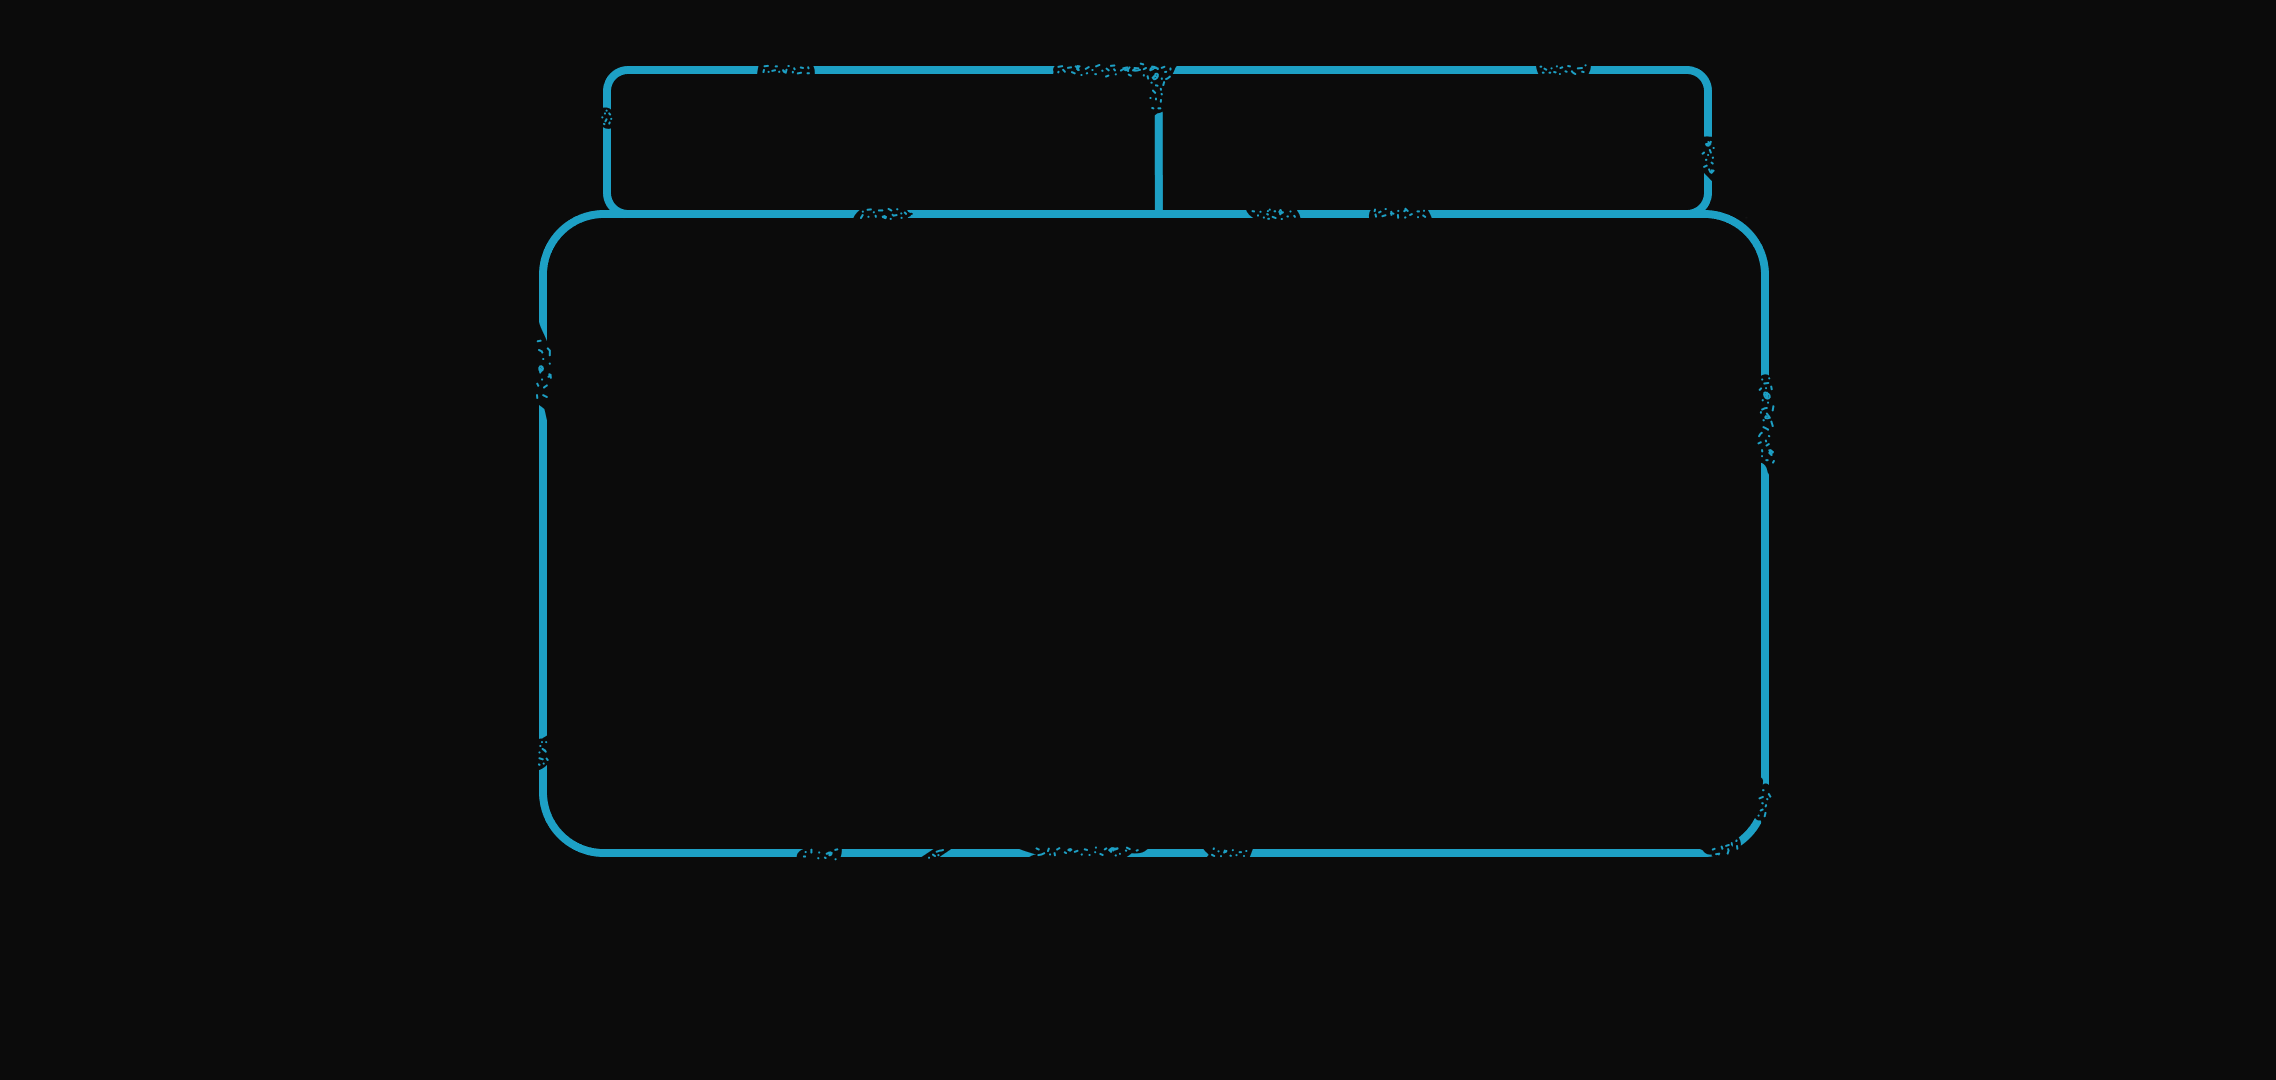
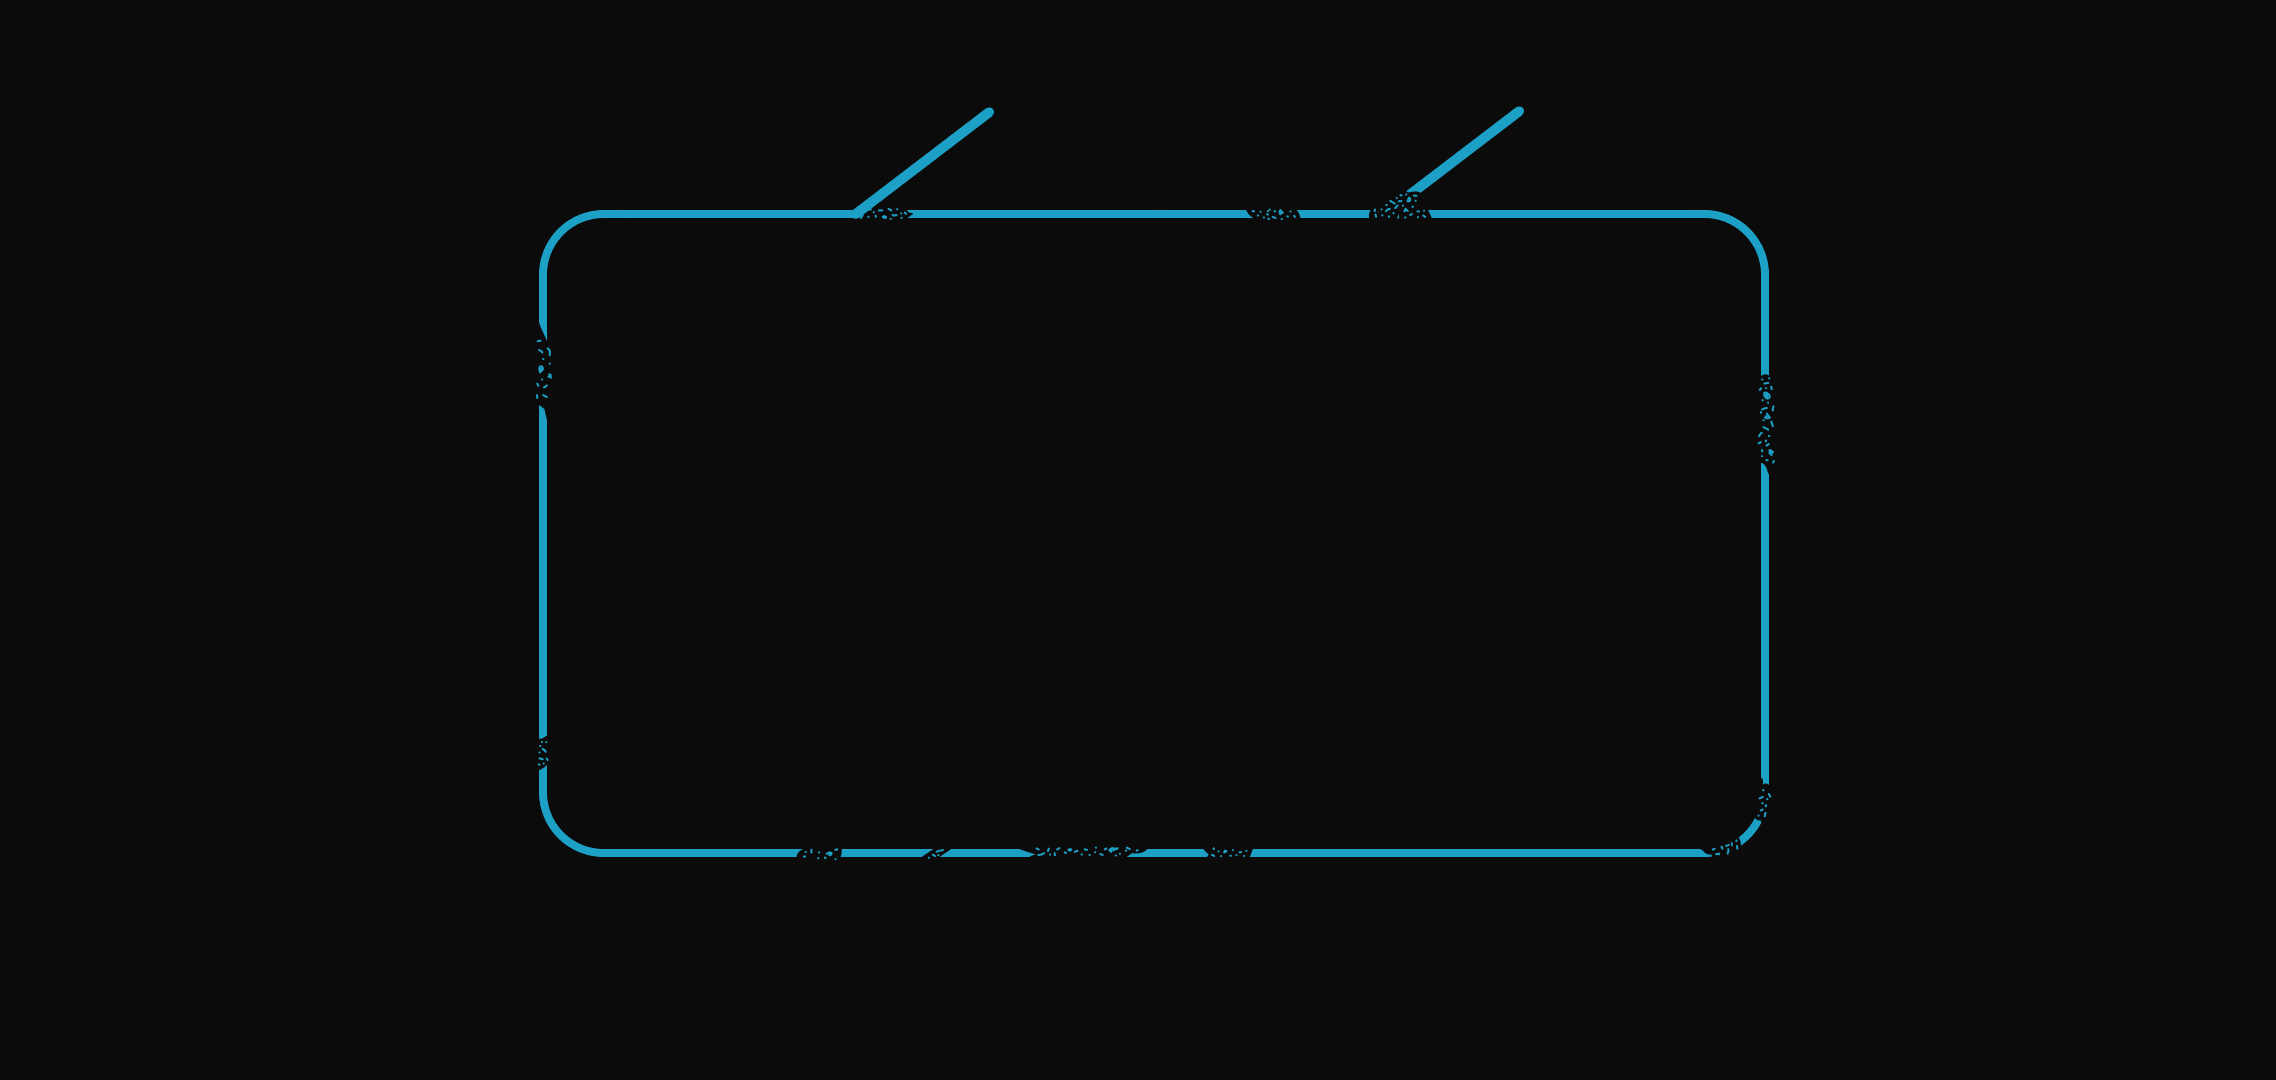
v

diff --git a/OptionsSounds.java b/OptionsSounds.java
@@ -16,11 +16,22 @@ public class OptionsSounds extends JPanel implements ActionListener, ChangeListe
 
     OptionsSounds(FenetreOption f_o) {
 
-        try {
-            img = ImageIO.read(new File("graphics/images/FondMenuOptions.png"));
-        } catch (IOException e) {
-            e.printStackTrace();
+        if (FenetreGraphique.vien_de == 2) {
+            try {
+                img = ImageIO.read(new File("graphics/images/FondMenuOptions.png"));
+            } catch (IOException e) {
+                e.printStackTrace();
+            }
         }
+
+        else {
+            try {
+                img = ImageIO.read(new File("graphics/images/FondMenuOptions1.png"));
+            } catch (IOException e) {
+                e.printStackTrace();
+            }
+        }
+
         this.f_o = f_o;
 
         creationBouton();
@@ -32,7 +43,6 @@ public class OptionsSounds extends JPanel implements ActionListener, ChangeListe
         g.setColor(Color.BLACK);
         g.drawImage(img, 0, 0, longueur, hauteur, null);
     }
-
 
     public void creationBouton() {
 
@@ -66,10 +76,16 @@ public class OptionsSounds extends JPanel implements ActionListener, ChangeListe
         this.add(ActiverLeSon);
 
         // Bouton Appliquer les changements
-        Bouton Affichage = new Bouton(550, 100, 400, 110, "Affichage");
+        Bouton Affichage = new Bouton(550, 90, 400, 110, "Affichage");
         Affichage.setActionCommand("Affichage");
         Affichage.addActionListener(this);
         this.add(Affichage);
+
+        // Bouton Afficher règles du jeux
+        Bouton Regles = new Bouton(1500, 950, 500, 110, "Regles");
+        Regles.setActionCommand("Regles");
+        Regles.addActionListener(this);
+        this.add(Regles);
 
         if (FenetreGraphique.vien_de == 2) {
             // Bouton aller dans Gameplay
@@ -140,6 +156,12 @@ public class OptionsSounds extends JPanel implements ActionListener, ChangeListe
                 FenetreGraphique.sounds.stop();
                 FenetreGraphique.putSong = !FenetreGraphique.putSong;
             }
+        }
+
+        else if (event.getActionCommand().equals("Regles")) {
+            FenetreOption.window = 4;
+            FenetreOption.changement = true;
+            FenetreOption.show = true;
         }
 
     }

diff --git a/Options.java b/Options.java
@@ -6,7 +6,7 @@ import javax.imageio.*;
 import java.io.File;
 import java.awt.event.*;
 
-public class Options extends JPanel implements ActionListener{
+public class Options extends JPanel implements ActionListener {
 
     BufferedImage img;
     private FenetreOption f_o;
@@ -14,11 +14,22 @@ public class Options extends JPanel implements ActionListener{
 
     Options(FenetreOption f_o) {
 
-        try {
-            img = ImageIO.read(new File("graphics/images/FondMenuOptions.png"));
-        } catch (IOException e) {
-            e.printStackTrace();
+        if (FenetreGraphique.vien_de == 2) {
+            try {
+                img = ImageIO.read(new File("graphics/images/FondMenuOptions.png"));
+            } catch (IOException e) {
+                e.printStackTrace();
+            }
         }
+
+        else {
+            try {
+                img = ImageIO.read(new File("graphics/images/FondMenuOptions1.png"));
+            } catch (IOException e) {
+                e.printStackTrace();
+            }
+        }
+
         this.f_o = f_o;
 
         creationBouton();
@@ -52,7 +63,7 @@ public class Options extends JPanel implements ActionListener{
         this.add(Regles);
 
         // Bouton aller dans la catégorie Affichage
-        Bouton Affichage = new Bouton(550, 100, 400, 110, "Affichage");
+        Bouton Affichage = new Bouton(550, 90, 400, 110, "Affichage");
         Affichage.setActionCommand("Activer le son");
         Affichage.addActionListener(this);
         Color monOrange = new Color(197, 116, 29);
@@ -120,6 +131,7 @@ public class Options extends JPanel implements ActionListener{
         }
 
         else if (event.getActionCommand().equals("Appliquer")) {
+
             if (FenetreGraphique.changeScreen == true) {
                 f_o.f_g.changementDeScreen();
             }
@@ -130,8 +142,8 @@ public class Options extends JPanel implements ActionListener{
                 FenetreGraphique.putSong = !FenetreGraphique.putSong;
             }
         }
-        else if(event.getActionCommand().equals("Regles"))
-        {
+
+        else if (event.getActionCommand().equals("Regles")) {
             FenetreOption.window = 4;
             FenetreOption.changement = true;
             FenetreOption.show = true;

diff --git a/OptionsGameplay.java b/OptionsGameplay.java
@@ -18,11 +18,22 @@ public class OptionsGameplay extends JPanel implements ActionListener, ChangeLis
 
     OptionsGameplay(FenetreOption f_o) {
 
-        try {
-            img = ImageIO.read(new File("graphics/images/FondMenuOptions.png"));
-        } catch (IOException e) {
-            e.printStackTrace();
+        if (FenetreGraphique.vien_de == 2) {
+            try {
+                img = ImageIO.read(new File("graphics/images/FondMenuOptions.png"));
+            } catch (IOException e) {
+                e.printStackTrace();
+            }
         }
+
+        else {
+            try {
+                img = ImageIO.read(new File("graphics/images/FondMenuOptions1.png"));
+            } catch (IOException e) {
+                e.printStackTrace();
+            }
+        }
+
         this.f_o = f_o;
 
         /*
@@ -50,7 +61,7 @@ public class OptionsGameplay extends JPanel implements ActionListener, ChangeLis
         this.add(Regles);
 
         // Bouton aller dans la catégorie Affichage
-        Bouton Affichage = new Bouton(550, 100, 400, 110, "Affichage");
+        Bouton Affichage = new Bouton(550, 90, 400, 110, "Affichage");
         Affichage.setActionCommand("Affichage");
         Affichage.addActionListener(this);
         this.add(Affichage);
@@ -170,8 +181,7 @@ public class OptionsGameplay extends JPanel implements ActionListener, ChangeLis
             }
         }
 
-        else if(event.getActionCommand().equals("Regles"))
-        {
+        else if (event.getActionCommand().equals("Regles")) {
             FenetreOption.window = 4;
             FenetreOption.changement = true;
             FenetreOption.show = true;

diff --git a/FenetreGraphique.java b/FenetreGraphique.java
@@ -14,7 +14,7 @@ public class FenetreGraphique extends JFrame implements ActionListener {
     static boolean changement = true, fullscreen = false, changeScreen = false, affiche_fps = false, putSong = true;
     static double fps;
     static String nom1, nom2;
-    
+
     FenetreGraphique(String nom) {
         super(nom);
         Image icon = Toolkit.getDefaultToolkit().getImage("graphics/images/Logo.png");
@@ -68,8 +68,7 @@ public class FenetreGraphique extends JFrame implements ActionListener {
                     case 2: {
 
                         if (vien_de == 1) {
-                            if(pente == null)
-                            {
+                            if (pente == null) {
                                 nom1 = JOptionPane.showInputDialog(null, "Entrer le nom du J1", "Joueur 1");
                                 nom2 = JOptionPane.showInputDialog(null, "Entrer le nom du J2", "Joueur 2");
                             }
@@ -93,7 +92,7 @@ public class FenetreGraphique extends JFrame implements ActionListener {
                         break;
                     }
 
-                    case 4:{
+                    case 4: {
                         FenetreGagne gagner = new FenetreGagne();
                         gagner.setLayout(null);
                         setContentPane(gagner);
